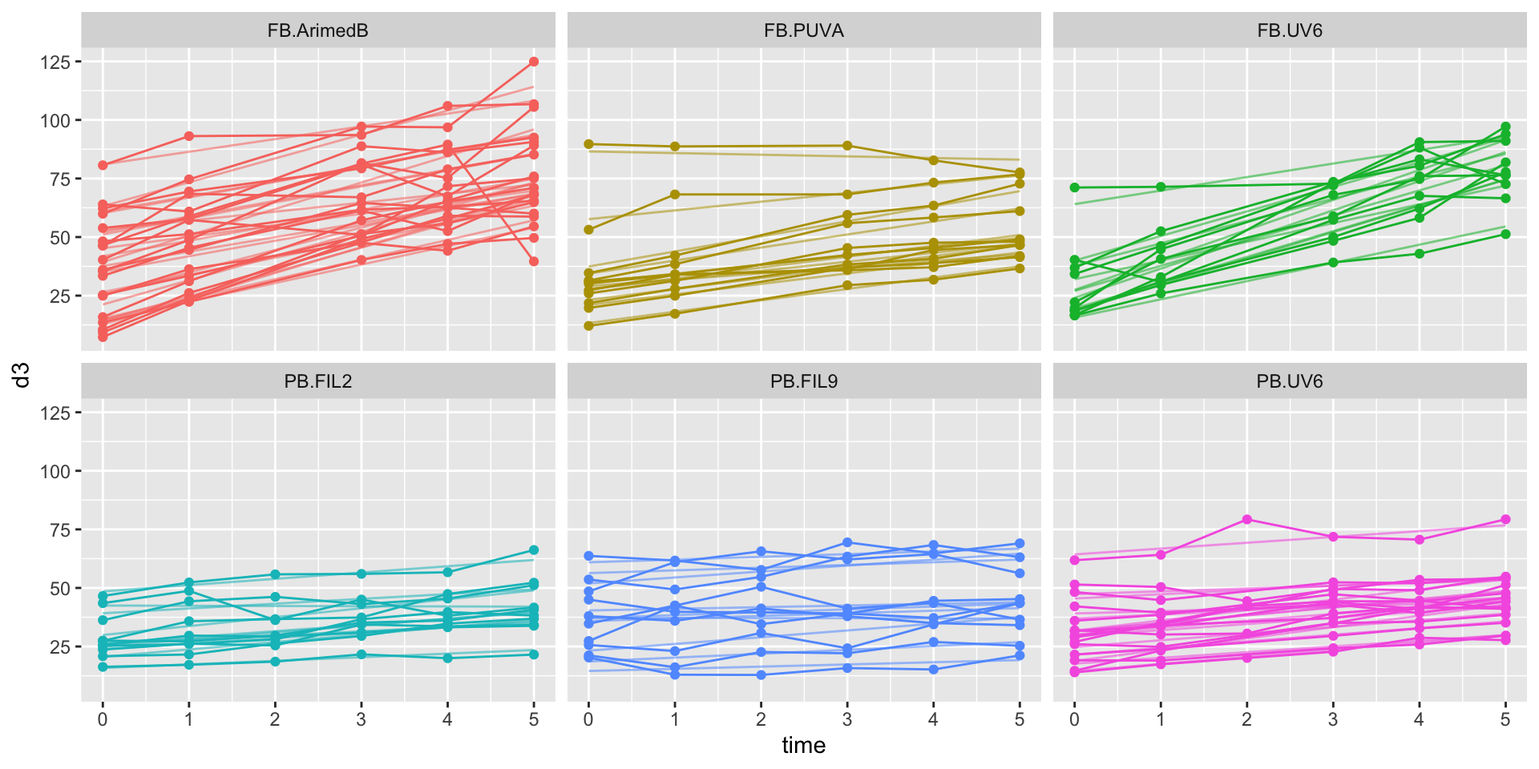
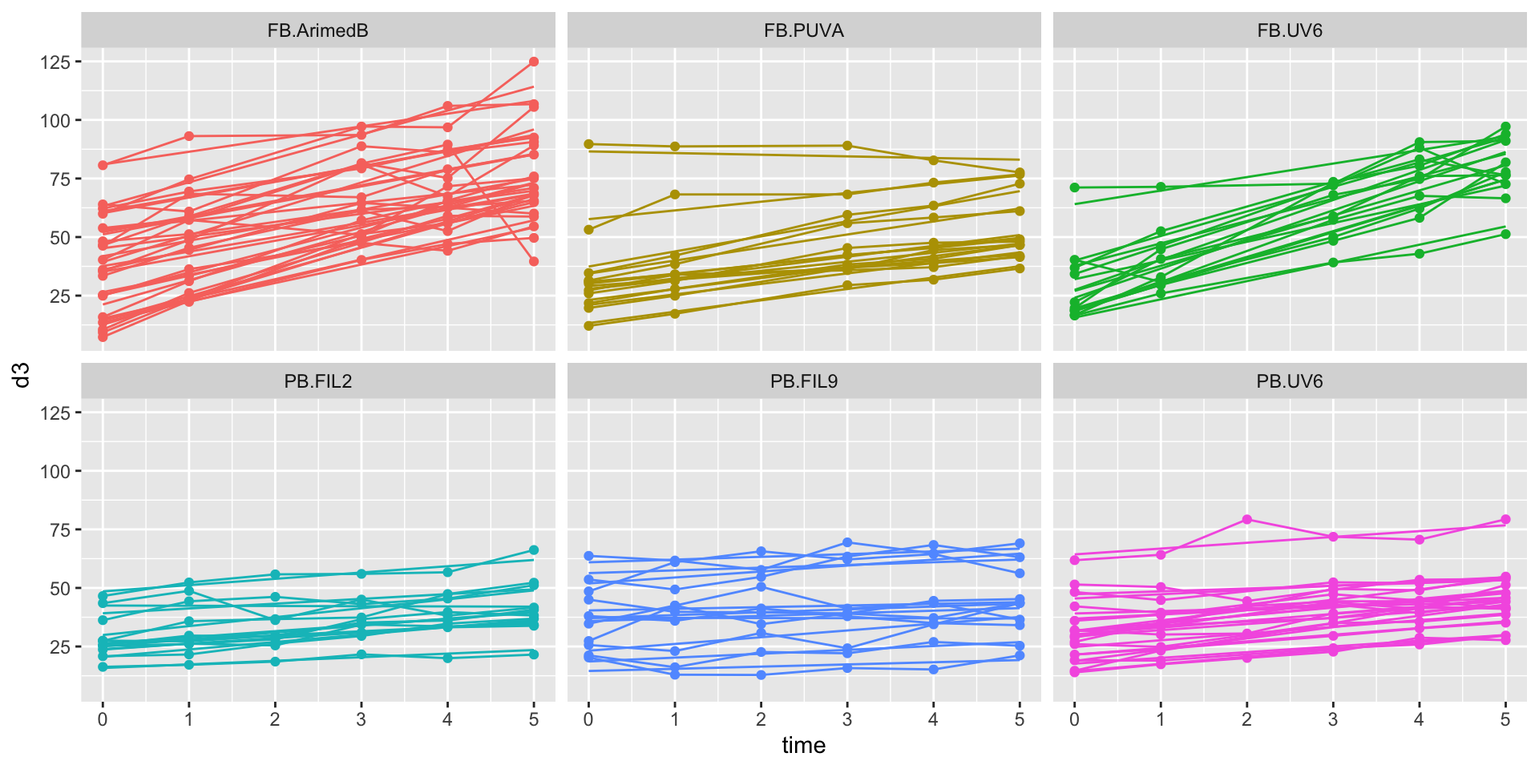
Built site for gh-pages

diff --git a/posts/uvb_vitaminD.html b/posts/uvb_vitaminD.html
@@ -389,7 +389,7 @@
   <link href="../site_libs/pagedtable-1.1/css/pagedtable.css" rel="stylesheet">
   <script src="../site_libs/pagedtable-1.1/js/pagedtable.js"></script>
 <meta property="og:title" content="BaselDataScience - UVB radiation and vitamin D balance">
-<meta property="og:description" content="Redoing the analysis of a London based study of UVB application in winter on 75 subjects.">
+<meta property="og:description" content="Reanalysis of a London based study of UVB application towards end of winter on 75 subjects.">
 <meta property="og:image" content="https://BaselDataScience.github.io/baseldatascience.github.io/posts/uvb_vitD.jpeg">
 <meta property="og:site-name" content="BaselDataScience">
 </head>
@@ -546,7 +546,7 @@ Reinhold Koch
 </section>
 <section id="create-time-variable" class="slide level2">
 <h2>Create time variable</h2>
-<p>Variables <code>Baseline</code>, <code>Post UVR 1</code>, <code>Post UVR 2</code>, … provide the D3 measurements at the consecutive visits. For a decent model I need an explicit time variable.</p>
+<p>Variables <code>Baseline</code>, <code>Post UVR 1</code>, <code>Post UVR 2</code>, … provide the D3 measurements at the consecutive visits. For a decent model I want an explicit time variable.</p>
 <div class="cell" data-hash="uvb_vitaminD_cache/revealjs/make time_b2174b12253244bdf197f9255e2606d0">
 <div class="sourceCode cell-code" id="cb8"><pre class="sourceCode numberSource r number-lines code-with-copy"><code class="sourceCode r"><span id="cb8-1"><a href="#cb8-1"></a>dat_ts <span class="ot">&lt;-</span> dat0 <span class="sc">|&gt;</span></span>
 <span id="cb8-2"><a href="#cb8-2"></a>  dplyr<span class="sc">::</span><span class="fu">select</span>(<span class="sc">-</span><span class="fu">c</span>(<span class="st">'Study'</span>, <span class="st">'Original Vol No'</span>, <span class="st">'Date of 1st irrad'</span>)) <span class="sc">|&gt;</span></span>
@@ -578,19 +578,20 @@ Reinhold Koch
 <img data-src="uvb_vitaminD_files/figure-revealjs/trends-1.png" width="960" class="r-stretch"></section>
 <section id="control-of-similar-baseline" class="slide level2">
 <h2>Control of similar baseline</h2>
-<div class="cell" data-hash="uvb_vitaminD_cache/revealjs/similar baseline_dff652c53ae08b041aeb162c9ee2b559">
+<div class="cell" data-hash="uvb_vitaminD_cache/revealjs/similar baseline_cbfa43fe86e29bf138e2a7ddb4a5355f">
 <div class="sourceCode cell-code" id="cb11"><pre class="sourceCode numberSource r number-lines code-with-copy"><code class="sourceCode r"><span id="cb11-1"><a href="#cb11-1"></a><span class="fu">ggplot</span>(<span class="at">data=</span>dat_ts <span class="sc">|&gt;</span> dplyr<span class="sc">::</span><span class="fu">filter</span>(time <span class="sc">==</span> <span class="dv">0</span>),</span>
 <span id="cb11-2"><a href="#cb11-2"></a>       <span class="fu">aes</span>(<span class="at">x=</span>BSA, <span class="at">y=</span>d3, <span class="at">group=</span>BSA, <span class="at">fill=</span>BSA)) <span class="sc">+</span></span>
-<span id="cb11-3"><a href="#cb11-3"></a>  <span class="fu">geom_boxplot</span>(<span class="at">alpha=</span>.<span class="dv">8</span>) <span class="sc">+</span></span>
+<span id="cb11-3"><a href="#cb11-3"></a>  <span class="fu">geom_boxplot</span>() <span class="sc">+</span></span>
 <span id="cb11-4"><a href="#cb11-4"></a>  <span class="fu">geom_point</span>() <span class="sc">+</span> <span class="fu">theme</span>(<span class="at">legend.position=</span><span class="st">"none"</span>)</span></code><button title="Copy to Clipboard" class="code-copy-button"><i class="bi"></i></button></pre></div>
 
 </div>
 <img data-src="uvb_vitaminD_files/figure-revealjs/similar baseline-1.png" width="960" class="r-stretch"></section>
 <section id="mixed-model" class="slide level2">
 <h2>Mixed model</h2>
-<div class="cell" data-hash="uvb_vitaminD_cache/revealjs/model_bbd7a48f71d705bbba67179d14dea158">
-<div class="sourceCode cell-code" id="cb12"><pre class="sourceCode numberSource r number-lines code-with-copy"><code class="sourceCode r"><span id="cb12-1"><a href="#cb12-1"></a>(m5 <span class="ot">&lt;-</span> lme4<span class="sc">::</span><span class="fu">lmer</span>(d3 <span class="sc">~</span> time <span class="sc">+</span> BSA<span class="sc">:</span>time <span class="sc">+</span> UVR<span class="sc">:</span>time <span class="sc">+</span> (time<span class="sc">|</span>pid),</span>
-<span id="cb12-2"><a href="#cb12-2"></a>                  <span class="at">data =</span> dat_ts))</span></code><button title="Copy to Clipboard" class="code-copy-button"><i class="bi"></i></button></pre></div>
+<div class="cell" data-hash="uvb_vitaminD_cache/revealjs/model_8869229f4934fdf5989f7029b62b7342">
+<div class="sourceCode cell-code" id="cb12"><pre class="sourceCode numberSource r number-lines code-with-copy"><code class="sourceCode r"><span id="cb12-1"><a href="#cb12-1"></a><span class="fu">options</span>(<span class="at">width=</span><span class="dv">78</span>)</span>
+<span id="cb12-2"><a href="#cb12-2"></a>(m1 <span class="ot">&lt;-</span> lme4<span class="sc">::</span><span class="fu">lmer</span>(d3 <span class="sc">~</span> time <span class="sc">+</span> BSA<span class="sc">:</span>time <span class="sc">+</span> UVR<span class="sc">:</span>time <span class="sc">+</span> (time<span class="sc">|</span>pid),</span>
+<span id="cb12-3"><a href="#cb12-3"></a>                  <span class="at">data =</span> dat_ts))</span></code><button title="Copy to Clipboard" class="code-copy-button"><i class="bi"></i></button></pre></div>
 <div class="cell-output cell-output-stdout">
 <pre><code>Linear mixed model fit by REML ['lmerMod']
 Formula: d3 ~ time + BSA:time + UVR:time + (time | pid)
@@ -603,22 +604,24 @@ Random effects:
  Residual              5.180        
 Number of obs: 400, groups:  pid, 75
 Fixed Effects:
- (Intercept)          time    time:BSAPB  time:UVRFIL2  time:UVRFIL9  time:UVRPUVA   time:UVRUV6  
-     34.7330        8.0092       -7.1377        1.1129        0.6351       -3.9687        1.7181  </code></pre>
+ (Intercept)          time    time:BSAPB  time:UVRFIL2  time:UVRFIL9  
+     34.7330        8.0092       -7.1377        1.1129        0.6351  
+time:UVRPUVA   time:UVRUV6  
+     -3.9687        1.7181  </code></pre>
 </div>
 </div>
 </section>
 <section id="quality-control-residuals-vs-predictions" class="slide level2">
 <h2>Quality control: residuals vs predictions</h2>
-<div class="cell" data-hash="uvb_vitaminD_cache/revealjs/resplot_a946befbd4c51c3743e6eb65006a40a7">
-<div class="sourceCode cell-code" id="cb14"><pre class="sourceCode numberSource r number-lines code-with-copy"><code class="sourceCode r"><span id="cb14-1"><a href="#cb14-1"></a><span class="fu">plot</span>(m5)</span></code><button title="Copy to Clipboard" class="code-copy-button"><i class="bi"></i></button></pre></div>
+<div class="cell" data-hash="uvb_vitaminD_cache/revealjs/resplot_5de688de2fa8bee4a2605ae7b73bf533">
+<div class="sourceCode cell-code" id="cb14"><pre class="sourceCode numberSource r number-lines code-with-copy"><code class="sourceCode r"><span id="cb14-1"><a href="#cb14-1"></a><span class="fu">plot</span>(m1)</span></code><button title="Copy to Clipboard" class="code-copy-button"><i class="bi"></i></button></pre></div>
 
 </div>
 <img data-src="uvb_vitaminD_files/figure-revealjs/resplot-1.png" width="960" class="r-stretch"></section>
 <section id="confidence-intervals-of-model-parameters" class="slide level2">
 <h2>Confidence intervals of model parameters</h2>
-<div class="cell" data-hash="uvb_vitaminD_cache/revealjs/confint_13ce6f5bb67f9253a7634dacaa181449">
-<div class="sourceCode cell-code" id="cb15"><pre class="sourceCode numberSource r number-lines code-with-copy"><code class="sourceCode r"><span id="cb15-1"><a href="#cb15-1"></a>mixedup<span class="sc">::</span><span class="fu">summarise_model</span>(m5)</span></code><button title="Copy to Clipboard" class="code-copy-button"><i class="bi"></i></button></pre></div>
+<div class="cell" data-hash="uvb_vitaminD_cache/revealjs/confint_52f5d979c857c4c623cd2d6cc5741c17">
+<div class="sourceCode cell-code" id="cb15"><pre class="sourceCode numberSource r number-lines code-with-copy"><code class="sourceCode r"><span id="cb15-1"><a href="#cb15-1"></a>mixedup<span class="sc">::</span><span class="fu">summarise_model</span>(m1)</span></code><button title="Copy to Clipboard" class="code-copy-button"><i class="bi"></i></button></pre></div>
 <div class="cell-output cell-output-stdout">
 <pre><code>    Group    Effect Variance    SD SD_2.5 SD_97.5 Var_prop
       pid Intercept   276.53 16.63  14.04   19.71     0.90
@@ -637,40 +640,39 @@ Fixed Effects:
 </section>
 <section id="d3-time-courses-by-exposure-by-radiation-source" class="slide level2">
 <h2>D3 time courses by exposure &amp; by radiation source</h2>
-<div class="cell" data-hash="uvb_vitaminD_cache/revealjs/time courses_5e592ab76712335b803bf180976e9e11">
+<div class="cell" data-hash="uvb_vitaminD_cache/revealjs/time courses_9279b43d1c77a03cbc4d7a2985302e81">
 <div class="sourceCode cell-code" id="cb17"><pre class="sourceCode numberSource r number-lines code-with-copy"><code class="sourceCode r"><span id="cb17-1"><a href="#cb17-1"></a><span class="co"># import model prediction</span></span>
 <span id="cb17-2"><a href="#cb17-2"></a><span class="co"># create a factor of all combinations of BSA and UVR</span></span>
 <span id="cb17-3"><a href="#cb17-3"></a><span class="co"># replace radiation doses with cumulative dose over study</span></span>
 <span id="cb17-4"><a href="#cb17-4"></a>dat <span class="ot">&lt;-</span> dat_ts <span class="sc">|&gt;</span></span>
-<span id="cb17-5"><a href="#cb17-5"></a>  dplyr<span class="sc">::</span><span class="fu">mutate</span>(<span class="at">pred=</span><span class="fu">predict</span>(m5),</span>
+<span id="cb17-5"><a href="#cb17-5"></a>  dplyr<span class="sc">::</span><span class="fu">mutate</span>(<span class="at">pred1=</span><span class="fu">predict</span>(m1),</span>
 <span id="cb17-6"><a href="#cb17-6"></a>                <span class="at">BSA_UVR=</span><span class="fu">interaction</span>(BSA,UVR, <span class="at">lex.order =</span> <span class="cn">TRUE</span>),</span>
-<span id="cb17-7"><a href="#cb17-7"></a>                <span class="fu">across</span>(CIE_Erythema<span class="sc">:</span>Olds, <span class="cf">function</span>(x) x<span class="sc">*</span>time))</span>
+<span id="cb17-7"><a href="#cb17-7"></a>                <span class="fu">across</span>(CIE_Erythema<span class="sc">:</span>Olds, <span class="cf">function</span>(x) x<span class="sc">*</span>time<span class="sc">/</span><span class="dv">100</span>))</span>
 <span id="cb17-8"><a href="#cb17-8"></a>ggplot2<span class="sc">::</span><span class="fu">ggplot</span>(</span>
 <span id="cb17-9"><a href="#cb17-9"></a>  <span class="at">data=</span>dat,</span>
 <span id="cb17-10"><a href="#cb17-10"></a>  <span class="fu">aes</span>(<span class="at">x=</span>time, <span class="at">y=</span>d3, <span class="at">color=</span>BSA_UVR, <span class="at">group=</span>BSA_UVR)) <span class="sc">+</span></span>
 <span id="cb17-11"><a href="#cb17-11"></a>  <span class="fu">geom_point</span>() <span class="sc">+</span> <span class="fu">geom_path</span>(<span class="fu">aes</span>(<span class="at">group=</span>pid)) <span class="sc">+</span> </span>
-<span id="cb17-12"><a href="#cb17-12"></a>  <span class="fu">geom_path</span>(<span class="fu">aes</span>(<span class="at">group=</span>pid, <span class="at">y=</span>pred, <span class="at">alpha=</span><span class="fl">0.4</span>)) <span class="sc">+</span></span>
+<span id="cb17-12"><a href="#cb17-12"></a>  <span class="fu">geom_path</span>(<span class="fu">aes</span>(<span class="at">group=</span>pid, <span class="at">y=</span>pred1)) <span class="sc">+</span></span>
 <span id="cb17-13"><a href="#cb17-13"></a>  ggplot2<span class="sc">::</span><span class="fu">facet_wrap</span>(<span class="sc">~</span>BSA_UVR) <span class="sc">+</span> <span class="fu">theme</span>(<span class="at">legend.position =</span> <span class="st">"none"</span>)</span></code><button title="Copy to Clipboard" class="code-copy-button"><i class="bi"></i></button></pre></div>
 </div>
 
 </section>
-<section id="d3-time-courses-by-exposure-by-radiation-source-output" class="slide level2 output-location-slide"><h2>D3 time courses by exposure &amp; by radiation source</h2><div class="cell output-location-slide" data-hash="uvb_vitaminD_cache/revealjs/time courses_5e592ab76712335b803bf180976e9e11">
+<section id="d3-time-courses-by-exposure-by-radiation-source-output" class="slide level2 output-location-slide"><h2>D3 time courses by exposure &amp; by radiation source</h2><div class="cell output-location-slide" data-hash="uvb_vitaminD_cache/revealjs/time courses_9279b43d1c77a03cbc4d7a2985302e81">
 <div class="cell-output-display">
 <p><img data-src="uvb_vitaminD_files/figure-revealjs/time courses-1.png" width="960"></p>
 </div>
 </div></section><section id="measurements-vs-predictions" class="slide level2">
 <h2>Measurements vs predictions</h2>
-<div class="cell" data-hash="uvb_vitaminD_cache/revealjs/measures_0fdeaf8187c2d9de5097caf2acbe2a58">
-<div class="sourceCode cell-code" id="cb18"><pre class="sourceCode numberSource r number-lines code-with-copy"><code class="sourceCode r"><span id="cb18-1"><a href="#cb18-1"></a><span class="fu">ggplot</span>(<span class="fu">aes</span>(<span class="at">x=</span>pred, <span class="at">y=</span>d3, <span class="at">colour=</span>BSA_UVR, <span class="at">group=</span>BSA_UVR), <span class="at">data=</span>dat) <span class="sc">+</span></span>
+<div class="cell" data-hash="uvb_vitaminD_cache/revealjs/measures_4ba433aef0b7c944b3a223d45e63c1df">
+<div class="sourceCode cell-code" id="cb18"><pre class="sourceCode numberSource r number-lines code-with-copy"><code class="sourceCode r"><span id="cb18-1"><a href="#cb18-1"></a><span class="fu">ggplot</span>(<span class="fu">aes</span>(<span class="at">x=</span>pred1, <span class="at">y=</span>d3, <span class="at">colour=</span>BSA_UVR, <span class="at">group=</span>BSA_UVR), <span class="at">data=</span>dat) <span class="sc">+</span></span>
 <span id="cb18-2"><a href="#cb18-2"></a>  <span class="fu">geom_point</span>() <span class="sc">+</span> <span class="fu">geom_smooth</span>(<span class="at">se=</span><span class="cn">FALSE</span>)</span></code><button title="Copy to Clipboard" class="code-copy-button"><i class="bi"></i></button></pre></div>
 
 </div>
 <img data-src="uvb_vitaminD_files/figure-revealjs/measures-1.png" width="960" class="r-stretch"></section>
 <section id="correlation-of-radiation-profiles-with-predicted-d3" class="slide level2">
 <h2>Correlation of radiation profiles with predicted D3</h2>
-<div class="cell" data-hash="uvb_vitaminD_cache/revealjs/corr_07cf82a813c79018e1eb0474294cd9b2">
-<div class="sourceCode cell-code" id="cb19"><pre class="sourceCode numberSource r number-lines code-with-copy"><code class="sourceCode r"><span id="cb19-1"><a href="#cb19-1"></a><span class="fu">options</span>(<span class="at">width=</span><span class="dv">78</span>)</span>
-<span id="cb19-2"><a href="#cb19-2"></a>stats<span class="sc">::</span><span class="fu">cor</span>(dat <span class="sc">|&gt;</span> dplyr<span class="sc">::</span><span class="fu">select</span>(<span class="fu">c</span>(<span class="st">'d3'</span>, tidyselect<span class="sc">::</span><span class="fu">starts_with</span>(<span class="st">'blue'</span>))))</span></code><button title="Copy to Clipboard" class="code-copy-button"><i class="bi"></i></button></pre></div>
+<div class="cell" data-hash="uvb_vitaminD_cache/revealjs/corr_b0f0dd65613a0bc76794c82a2167abe1">
+<div class="sourceCode cell-code" id="cb19"><pre class="sourceCode numberSource r number-lines code-with-copy"><code class="sourceCode r"><span id="cb19-1"><a href="#cb19-1"></a>stats<span class="sc">::</span><span class="fu">cor</span>(dat <span class="sc">|&gt;</span> dplyr<span class="sc">::</span><span class="fu">select</span>(<span class="fu">c</span>(<span class="st">'d3'</span>, tidyselect<span class="sc">::</span><span class="fu">starts_with</span>(<span class="st">'blue'</span>))))</span></code><button title="Copy to Clipboard" class="code-copy-button"><i class="bi"></i></button></pre></div>
 <div class="cell-output cell-output-stdout">
 <pre><code>               d3   blue0nm   blue1nm   blue2nm   blue3nm   blue4nm   blue5nm
 d3      1.0000000 0.4131079 0.4207088 0.4289413 0.4354258 0.4402644 0.4416013
@@ -698,8 +700,128 @@ blue8nm 0.9848030 0.9964056 1.0000000 0.9969735
 blue9nm 0.9683425 0.9868094 0.9969735 1.0000000</code></pre>
 </div>
 </div>
+</section>
+<section id="cumulative-irradiation-dose-instead-of-time" class="slide level2">
+<h2>cumulative irradiation dose instead of time</h2>
+<div class="cell" data-hash="uvb_vitaminD_cache/revealjs/model2_bddcb21594ec516a96179bb578707068">
+<div class="sourceCode cell-code" id="cb21"><pre class="sourceCode numberSource r number-lines code-with-copy"><code class="sourceCode r"><span id="cb21-1"><a href="#cb21-1"></a>(m2 <span class="ot">&lt;-</span> lme4<span class="sc">::</span><span class="fu">lmer</span>(d3 <span class="sc">~</span> blue5nm <span class="sc">+</span> BSA<span class="sc">:</span>blue5nm <span class="sc">+</span> UVR<span class="sc">:</span>blue5nm <span class="sc">+</span> (blue5nm<span class="sc">|</span>pid),</span>
+<span id="cb21-2"><a href="#cb21-2"></a>                  <span class="at">data =</span> dat,</span>
+<span id="cb21-3"><a href="#cb21-3"></a>                  <span class="at">control=</span><span class="fu">lmerControl</span>(<span class="at">optimizer =</span> <span class="st">'Nelder_Mead'</span>)))</span></code><button title="Copy to Clipboard" class="code-copy-button"><i class="bi"></i></button></pre></div>
+<div class="cell-output cell-output-stdout">
+<pre><code>Linear mixed model fit by REML ['lmerMod']
+Formula: d3 ~ blue5nm + BSA:blue5nm + UVR:blue5nm + (blue5nm | pid)
+   Data: dat
+REML criterion at convergence: 2817.294
+Random effects:
+ Groups   Name        Std.Dev. Corr 
+ pid      (Intercept) 16.48         
+          blue5nm      1.42    -0.53
+ Residual              5.27         
+Number of obs: 400, groups:  pid, 75
+Fixed Effects:
+    (Intercept)          blue5nm    blue5nm:BSAPB  blue5nm:UVRFIL2  
+        34.7326           5.3637          -4.1213           0.1152  
+blue5nm:UVRFIL9  blue5nm:UVRPUVA   blue5nm:UVRUV6  
+         0.5710           1.3815           0.2030  </code></pre>
+</div>
+</div>
+</section>
+<section id="quality-control-residuals-vs-predictions-1" class="slide level2">
+<h2>Quality control: residuals vs predictions</h2>
+<div class="cell" data-hash="uvb_vitaminD_cache/revealjs/resplot2_9378210b918d99d93f8dc2d8d6b2e718">
+<div class="sourceCode cell-code" id="cb23"><pre class="sourceCode numberSource r number-lines code-with-copy"><code class="sourceCode r"><span id="cb23-1"><a href="#cb23-1"></a><span class="fu">plot</span>(m2)</span></code><button title="Copy to Clipboard" class="code-copy-button"><i class="bi"></i></button></pre></div>
 
-<div class="footer footer-default">
+</div>
+<img data-src="uvb_vitaminD_files/figure-revealjs/resplot2-1.png" width="960" class="r-stretch"></section>
+<section id="confidence-intervals-of-model-2-parameters" class="slide level2">
+<h2>Confidence intervals of model 2 parameters</h2>
+<div class="cell" data-hash="uvb_vitaminD_cache/revealjs/confint2_d97b3397c5541180732e622a364a8bcc">
+<div class="sourceCode cell-code" id="cb24"><pre class="sourceCode numberSource r number-lines code-with-copy"><code class="sourceCode r"><span id="cb24-1"><a href="#cb24-1"></a>mixedup<span class="sc">::</span><span class="fu">summarise_model</span>(m2)</span></code><button title="Copy to Clipboard" class="code-copy-button"><i class="bi"></i></button></pre></div>
+<div class="cell-output cell-output-stdout">
+<pre><code>    Group    Effect Variance    SD SD_2.5 SD_97.5 Var_prop
+      pid Intercept   271.74 16.48  13.91   19.54     0.90
+      pid   blue5nm     2.02  1.42   1.03    1.75     0.01
+ Residual        NA    27.77  5.27   4.84    5.77     0.09
+            Term Value   SE     t P_value Lower_2.5 Upper_97.5
+       Intercept 34.73 1.96 17.74    0.00     30.89      38.57
+         blue5nm  5.36 0.34 16.01    0.00      4.71       6.02
+   blue5nm:BSAPB -4.12 0.55 -7.56    0.00     -5.19      -3.05
+ blue5nm:UVRFIL2  0.12 0.77  0.15    0.88     -1.40       1.63
+ blue5nm:UVRFIL9  0.57 0.86  0.66    0.51     -1.12       2.27
+ blue5nm:UVRPUVA  1.38 0.76  1.81    0.07     -0.11       2.87
+  blue5nm:UVRUV6  0.20 0.53  0.38    0.70     -0.84       1.24</code></pre>
+</div>
+</div>
+<ul>
+<li>That means the source of UVB radiation, UVR, is not significant here!</li>
+</ul>
+</section>
+<section id="simplest-model" class="slide level2">
+<h2>simplest(?) model</h2>
+<div class="cell" data-hash="uvb_vitaminD_cache/revealjs/model3_a3ac7b285a1f196b3b6849a93c061e5b">
+<div class="sourceCode cell-code" id="cb26"><pre class="sourceCode numberSource r number-lines code-with-copy"><code class="sourceCode r"><span id="cb26-1"><a href="#cb26-1"></a>(m3 <span class="ot">&lt;-</span> lme4<span class="sc">::</span><span class="fu">lmer</span>(d3 <span class="sc">~</span> blue5nm <span class="sc">+</span> BSA<span class="sc">:</span>blue5nm <span class="sc">+</span> (blue5nm<span class="sc">|</span>pid),</span>
+<span id="cb26-2"><a href="#cb26-2"></a>                  <span class="at">data =</span> dat,</span>
+<span id="cb26-3"><a href="#cb26-3"></a>                  <span class="at">control=</span><span class="fu">lmerControl</span>(<span class="at">optimizer =</span> <span class="st">'Nelder_Mead'</span>)))</span></code><button title="Copy to Clipboard" class="code-copy-button"><i class="bi"></i></button></pre></div>
+<div class="cell-output cell-output-stdout">
+<pre><code>Linear mixed model fit by REML ['lmerMod']
+Formula: d3 ~ blue5nm + BSA:blue5nm + (blue5nm | pid)
+   Data: dat
+REML criterion at convergence: 2824.432
+Random effects:
+ Groups   Name        Std.Dev. Corr 
+ pid      (Intercept) 16.494        
+          blue5nm      1.401   -0.54
+ Residual              5.283        
+Number of obs: 400, groups:  pid, 75
+Fixed Effects:
+  (Intercept)        blue5nm  blue5nm:BSAPB  
+       34.902          5.582         -4.109  </code></pre>
+</div>
+</div>
+</section>
+<section id="quality-control-residuals-vs-predictions-2" class="slide level2">
+<h2>Quality control: residuals vs predictions</h2>
+<div class="cell" data-hash="uvb_vitaminD_cache/revealjs/resplot3_b93bae07582715938c7dc9fb234bf50e">
+<div class="sourceCode cell-code" id="cb28"><pre class="sourceCode numberSource r number-lines code-with-copy"><code class="sourceCode r"><span id="cb28-1"><a href="#cb28-1"></a><span class="fu">plot</span>(m3)</span></code><button title="Copy to Clipboard" class="code-copy-button"><i class="bi"></i></button></pre></div>
+
+</div>
+<img data-src="uvb_vitaminD_files/figure-revealjs/resplot3-1.png" width="960" class="r-stretch"></section>
+<section id="confidence-intervals-of-model-3-parameters" class="slide level2">
+<h2>Confidence intervals of model 3 parameters</h2>
+<div class="cell" data-hash="uvb_vitaminD_cache/revealjs/confint3_f414c24444c607f4aa2bbe5ca53c1d0e">
+<div class="sourceCode cell-code" id="cb29"><pre class="sourceCode numberSource r number-lines code-with-copy"><code class="sourceCode r"><span id="cb29-1"><a href="#cb29-1"></a>mixedup<span class="sc">::</span><span class="fu">summarise_model</span>(m3)</span></code><button title="Copy to Clipboard" class="code-copy-button"><i class="bi"></i></button></pre></div>
+<div class="cell-output cell-output-stdout">
+<pre><code>    Group    Effect Variance    SD SD_2.5 SD_97.5 Var_prop
+      pid Intercept   272.06 16.49  13.92   19.55     0.90
+      pid   blue5nm     1.96  1.40   1.04    1.77     0.01
+ Residual        NA    27.91  5.28   4.85    5.79     0.09
+          Term Value   SE      t P_value Lower_2.5 Upper_97.5
+     Intercept 34.90 1.96  17.83    0.00     31.07      38.74
+       blue5nm  5.58 0.26  21.59    0.00      5.07       6.09
+ blue5nm:BSAPB -4.11 0.34 -12.11    0.00     -4.77      -3.44</code></pre>
+</div>
+</div>
+</section>
+<section id="measurements-vs-final-predictions" class="slide level2">
+<h2>Measurements vs final predictions</h2>
+<div class="cell" data-hash="uvb_vitaminD_cache/revealjs/measures vs final predictions_dfc3f4111b246d037d10df8fa1f649e6">
+<div class="sourceCode cell-code" id="cb31"><pre class="sourceCode numberSource r number-lines code-with-copy"><code class="sourceCode r"><span id="cb31-1"><a href="#cb31-1"></a>dat_final <span class="ot">&lt;-</span> dat <span class="sc">|&gt;</span></span>
+<span id="cb31-2"><a href="#cb31-2"></a>  dplyr<span class="sc">::</span><span class="fu">mutate</span>(<span class="at">pred3=</span><span class="fu">predict</span>(m3))</span>
+<span id="cb31-3"><a href="#cb31-3"></a><span class="fu">ggplot</span>(<span class="fu">aes</span>(<span class="at">x=</span>pred3, <span class="at">y=</span>d3, <span class="at">colour=</span>BSA_UVR, <span class="at">group=</span>BSA_UVR), <span class="at">data=</span>dat_final) <span class="sc">+</span></span>
+<span id="cb31-4"><a href="#cb31-4"></a>  <span class="fu">geom_point</span>() <span class="sc">+</span> <span class="fu">geom_smooth</span>(<span class="at">se=</span><span class="cn">FALSE</span>)</span></code><button title="Copy to Clipboard" class="code-copy-button"><i class="bi"></i></button></pre></div>
+
+</div>
+<img data-src="uvb_vitaminD_files/figure-revealjs/measures vs final predictions-1.png" width="960" class="r-stretch"></section>
+<section id="comparison-of-prediction-quality" class="slide level2">
+<h2>comparison of prediction quality</h2>
+<div class="cell" data-hash="uvb_vitaminD_cache/revealjs/prediction quality_4d75234ad306e138fd760ced6bf0446d">
+<div class="sourceCode cell-code" id="cb32"><pre class="sourceCode numberSource r number-lines code-with-copy"><code class="sourceCode r"><span id="cb32-1"><a href="#cb32-1"></a><span class="fu">ggplot</span>(<span class="at">data=</span>dat_final, <span class="fu">aes</span>(<span class="at">x=</span>d3, <span class="at">y=</span>pred1)) <span class="sc">+</span> <span class="fu">geom_point</span>(<span class="at">color=</span><span class="st">'black'</span>) <span class="sc">+</span></span>
+<span id="cb32-2"><a href="#cb32-2"></a>  <span class="fu">geom_point</span>(<span class="fu">aes</span>(<span class="at">y=</span>pred3, <span class="at">alpha=</span><span class="fl">0.4</span>), <span class="at">color=</span><span class="st">'red'</span>) <span class="sc">+</span></span>
+<span id="cb32-3"><a href="#cb32-3"></a>  <span class="fu">theme</span>(<span class="at">legend.position=</span><span class="st">"none"</span>)</span></code><button title="Copy to Clipboard" class="code-copy-button"><i class="bi"></i></button></pre></div>
+
+</div>
+
+<img data-src="uvb_vitaminD_files/figure-revealjs/prediction quality-1.png" width="960" class="r-stretch"><div class="footer footer-default">
 <p>Basel Data Science</p>
 </div>
 </section>

diff --git a/events.html b/events.html
@@ -227,7 +227,7 @@ background-size: cover;
 
 <div class="quarto-listing quarto-listing-container-grid" id="listing-listing">
 <div class="list grid quarto-listing-cols-3">
-<div class="g-col-1" data-index="0" data-listing-date-sort="1701817200000" data-listing-file-modified-sort="1701339023558" data-listing-date-modified-sort="NaN" data-listing-reading-time-sort="4">
+<div class="g-col-1" data-index="0" data-listing-date-sort="1701817200000" data-listing-file-modified-sort="1701712089027" data-listing-date-modified-sort="NaN" data-listing-reading-time-sort="5">
 <a href="./posts/uvb_vitaminD.html" class="quarto-grid-link">
 <div class="quarto-grid-item card h-100 card-left">
 <p class="card-img-top">
@@ -238,7 +238,7 @@ background-size: cover;
 UVB radiation and vitamin D balance
 </h5>
 <div class="card-text listing-description">
-Redoing the analysis of a London based study of UVB application in winter on 75 subjects.
+Reanalysis of a London based study of UVB application towards end of winter on 75 subjects.
 </div>
 <div class="card-attribution card-text-small justify">
 <div class="listing-author">

diff --git a/index.html b/index.html
@@ -264,7 +264,7 @@ background-size: cover;
 
 <div class="quarto-listing quarto-listing-container-grid" id="listing-listing">
 <div class="list grid quarto-listing-cols-3">
-<div class="g-col-1" data-index="0" data-listing-date-sort="1701817200000" data-listing-file-modified-sort="1701339023558" data-listing-date-modified-sort="NaN" data-listing-reading-time-sort="4">
+<div class="g-col-1" data-index="0" data-listing-date-sort="1701817200000" data-listing-file-modified-sort="1701712089027" data-listing-date-modified-sort="NaN" data-listing-reading-time-sort="5">
 <a href="./posts/uvb_vitaminD.html" class="quarto-grid-link">
 <div class="quarto-grid-item card h-100 card-left">
 <p class="card-img-top">
@@ -275,7 +275,7 @@ background-size: cover;
 UVB radiation and vitamin D balance
 </h5>
 <div class="card-text listing-description">
-Redoing the analysis of a London based study of UVB application in winter on 75 subjects.
+Reanalysis of a London based study of UVB application towards end of winter on 75 subjects.
 </div>
 <div class="card-attribution card-text-small justify">
 <div class="listing-author">
